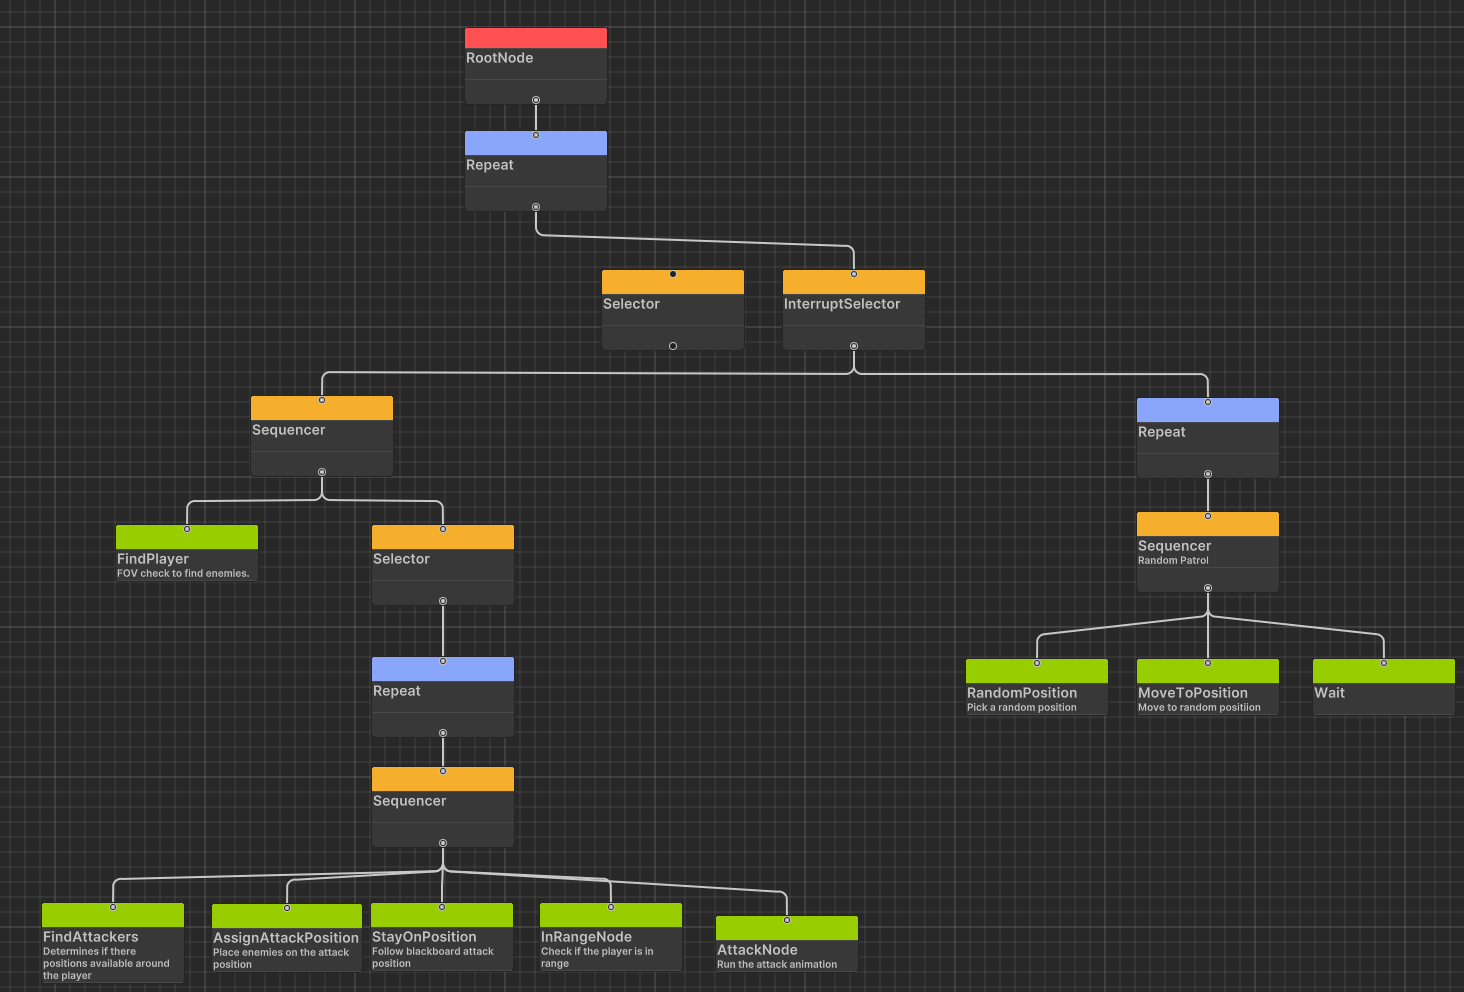
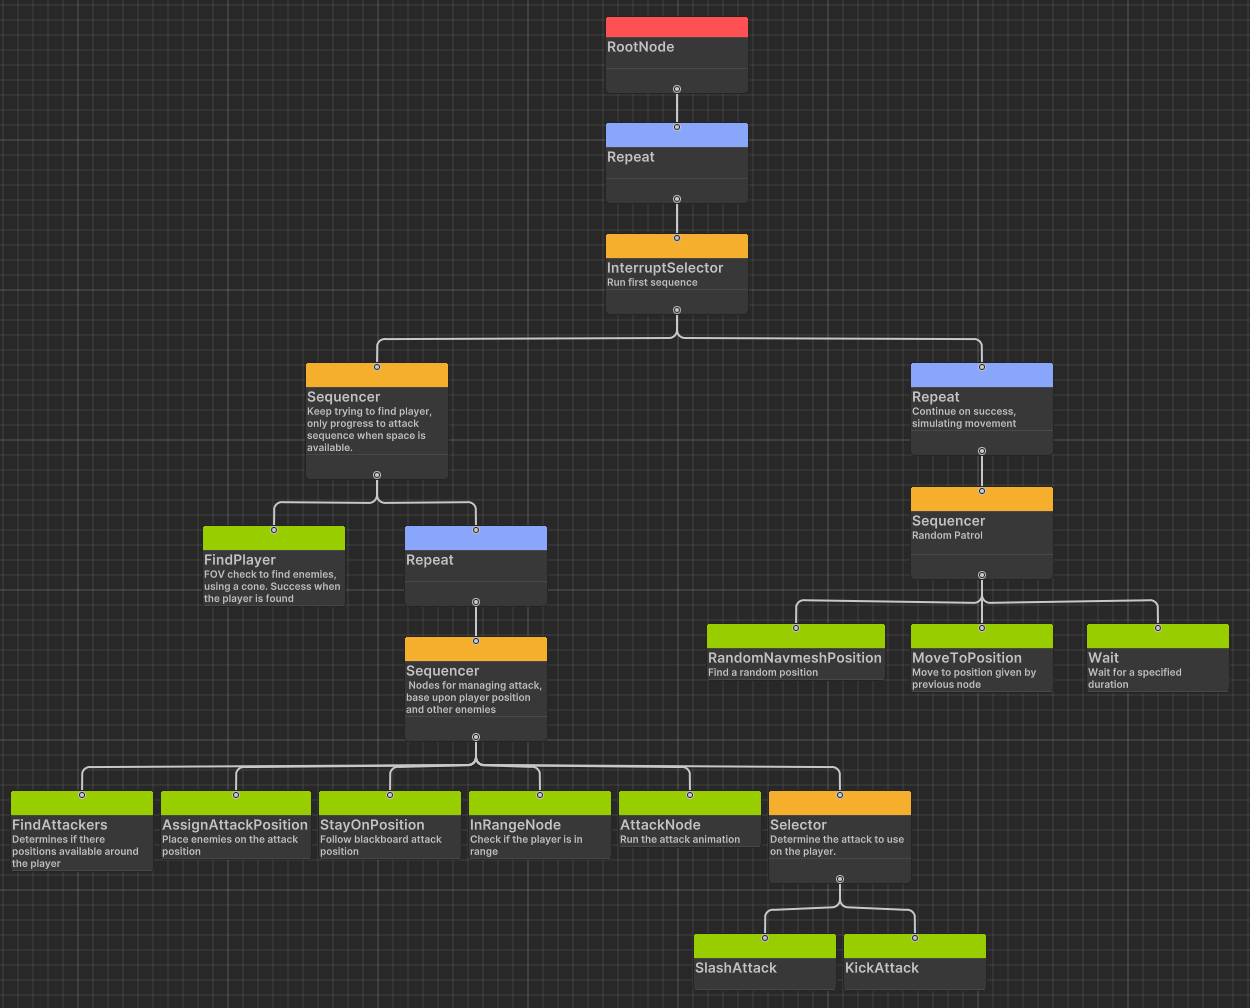
Added bold to first parts of bullet points, updated behaviour tree image

diff --git a/Projects/SolarSpark.html b/Projects/SolarSpark.html
@@ -108,29 +108,30 @@
         <div class="smallbox l">
             <h3>My Roles</h3>
                 <p class="description">
-                <ul><b>Lead Programmer:</b> </ul>
-                <ul><b>AI Programmer:</b> This was my specialism in the project and where a large amount of my efforts
-                    were focused. Created AI systems for enemies
+                <ul class="innerfirst">
+                <li><b>Lead Programmer:</b></li>
+                <li><b>AI Programmer:</b> This was my specialism in the project and where a large amount of my efforts
+                    were focused. Created AI systems for enemies</li>
                 </ul>
 
                 <br>
                 <h3>Contributions</h3>
 
                 <ul>
-                    <li><b>Enemy AI & Animations:</b> I created sword and axe enemy variant, hooked up animations and
+                    <li><b>Enemy AI & Animations: </b> I created sword and axe enemy variant, hooked up animations and
                         repurposed existing AI functionality
                         to create the final boss.
                     <li>
-                    <li><b>Input System:</b>Used Unity's input package to create a robust system, allowing for
+                    <li><b>Input System: </b>Used Unity's input package to create a robust system, allowing for
                         customisation for whatever we needed, also included input prompts
                         with a corresponding icon regardless of what platform</li>
-                    <li><b>Menu System:</b>Using simple button elements, I constructed the main menu, pause menu and
+                    <li><b>Menu System: </b>Using simple button elements, I constructed the main menu, pause menu and
                         settings menu. This also included a rebinding screen.</li>
-                    <li><b>Camera:</b>The Cinemachine package was used to get a basic camera, then finer details were
+                    <li><b>Camera: </b>The Cinemachine package was used to get a basic camera, then finer details were
                         adjusted to get the camera we desired.</li>
-                    <li><b>Build Creation:</b>I was responsible for creating weekly builds, to ensure frequent
+                    <li><b>Build Creation: </b>I was responsible for creating weekly builds, to ensure frequent
                         playtesting.</li>
-                    <li><b>Trailer Materials:</b>I recorded gameplay footage, collected resources and materials for use
+                    <li><b>Trailer Materials: </b>I recorded gameplay footage, collected resources and materials for use
                         in the trailer </li>
                     <li><b>Bugfixing:</b>
                 </ul>
@@ -146,14 +147,16 @@
         <!-- Detailed AI dev box: -->
         <div class="smallbox l">
             <h3>Enemy AI</h3>
-            <p class="description">
 
-            </p>
 
-            <!-- <div class=".container">
-                    <img src="../Images/nier.jpg">
-                </div> -->
+            <div class=".container">
+                    <img src="../Images/BehaviourTree.png">
+                </div>
         </div>
+
+        <br>
+        <hr>
+        <br>
 
         <!-- Input system dev box: -->
         <div class="smallbox l">
@@ -169,10 +172,9 @@
         </div>
 
         <br>
+        <hr>
         <br>
 
-        <br>
-        <br>
 
         <!-- Menu box: -->
         <div class="smallbox l">
@@ -185,8 +187,9 @@
                     <img src="../Images/nier.jpg">
                 </div> -->
         </div>
-
+     
         <br>
+        <hr>
         <br>
 
         <!-- Detailed camera dev info: -->
@@ -200,6 +203,7 @@
 
             <div class=".container">
                 <img src="../Images/nier.jpg">
+                <p class="reference">NieR: Automata by Square Enix.</p>
             </div>
 
             <p class="description">

diff --git a/CSS/projects.css b/CSS/projects.css
@@ -7,19 +7,21 @@
     gap: 5px;
 }
 
-li.s{
-    border-radius: 8px;
-}
+
 
 li{
     border: none;
     color: white;
     padding: 10px 20px;
     text-decoration: none;
-    font-size: 1em;
+    font-size: 1.2em;
     transition: 200ms;
     margin-right: 15px;
 }
+
+/* li.s{
+    border-radius: 8px;
+} */
 
 ul {
 	position: relative;
@@ -28,6 +30,7 @@ ul {
 	padding-left: 1.2em;
 }
 
+
 .buttoncontainer {
     display: flex;
     justify-content: center;
@@ -35,8 +38,13 @@ ul {
 }
 
 .description {
-    font-size: 1.1em;
+    font-size: 1.3em;
     line-height: 1.1em;
+}
+
+.reference {
+    font-style: italic;
+    text-align: end;
 }
 
 .player-container {
@@ -52,16 +60,19 @@ ul {
 
 iframe {
     width: 100%;
-    /* height: auto;
-    object-fit: contain; */
   }
 
 /* Images */
 
 img {
-    max-width: 90%;
+    max-width: 100%;
     height: auto;
     transition: 200ms;
+}
+
+img.interactable
+{
+    max-width: 90%;
 }
 
 img.interactable:hover {
@@ -95,6 +106,7 @@ img.interactable:hover {
     
     ul {
         font-size: 0.8em;
+        padding: 0;
     }
 
     li.s{

diff --git a/CSS/contentboxes.css b/CSS/contentboxes.css
@@ -2,7 +2,6 @@
     color: white;
     background-color: var(--title-color);
     font-size: 200%;
-    font-weight: 100;
     letter-spacing: 1px;
     padding: 30px 10px 30px;
     width: 75%;
@@ -22,7 +21,6 @@
     width: 80%;
     margin: auto;
     text-align: center;
-    font-weight: 100;
     letter-spacing: 1px;
     padding: 10px 10px 10px;
     border: 2px solid white;
@@ -51,7 +49,6 @@
         font-family: 'Helvetica Neue', sans-serif;
         color: white;
         font-size: 250%;
-        font-weight: 100;
         padding: 10px 0 10px;
     }
 
@@ -65,7 +62,6 @@
         color: white;
         width: 90%;
         margin: auto;
-        font-weight: 100;
     }
 }
 
@@ -75,6 +71,5 @@
     .title {
     width: 90%;
     font-size: 200%;
-    font-weight: 100;
     }
 }

diff --git a/CSS/global.css b/CSS/global.css
@@ -18,6 +18,7 @@ h3{
     font-family: "Lucida Console", "Courier New", monospace;
     color: var(--green-color);
     font-size: 2em;
+    margin-bottom: 0;
 }
 
 h4{
